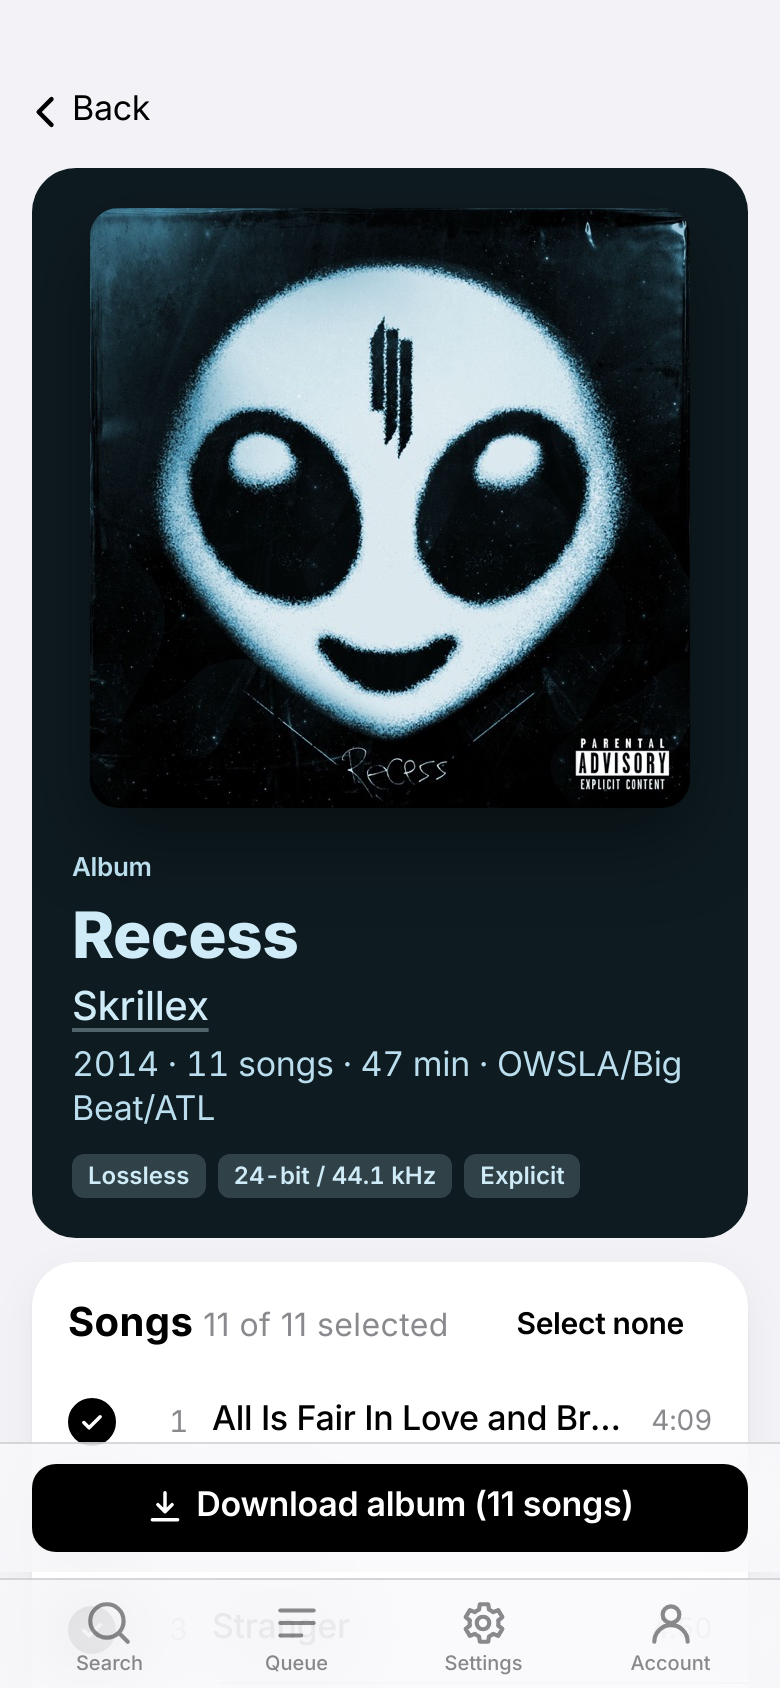
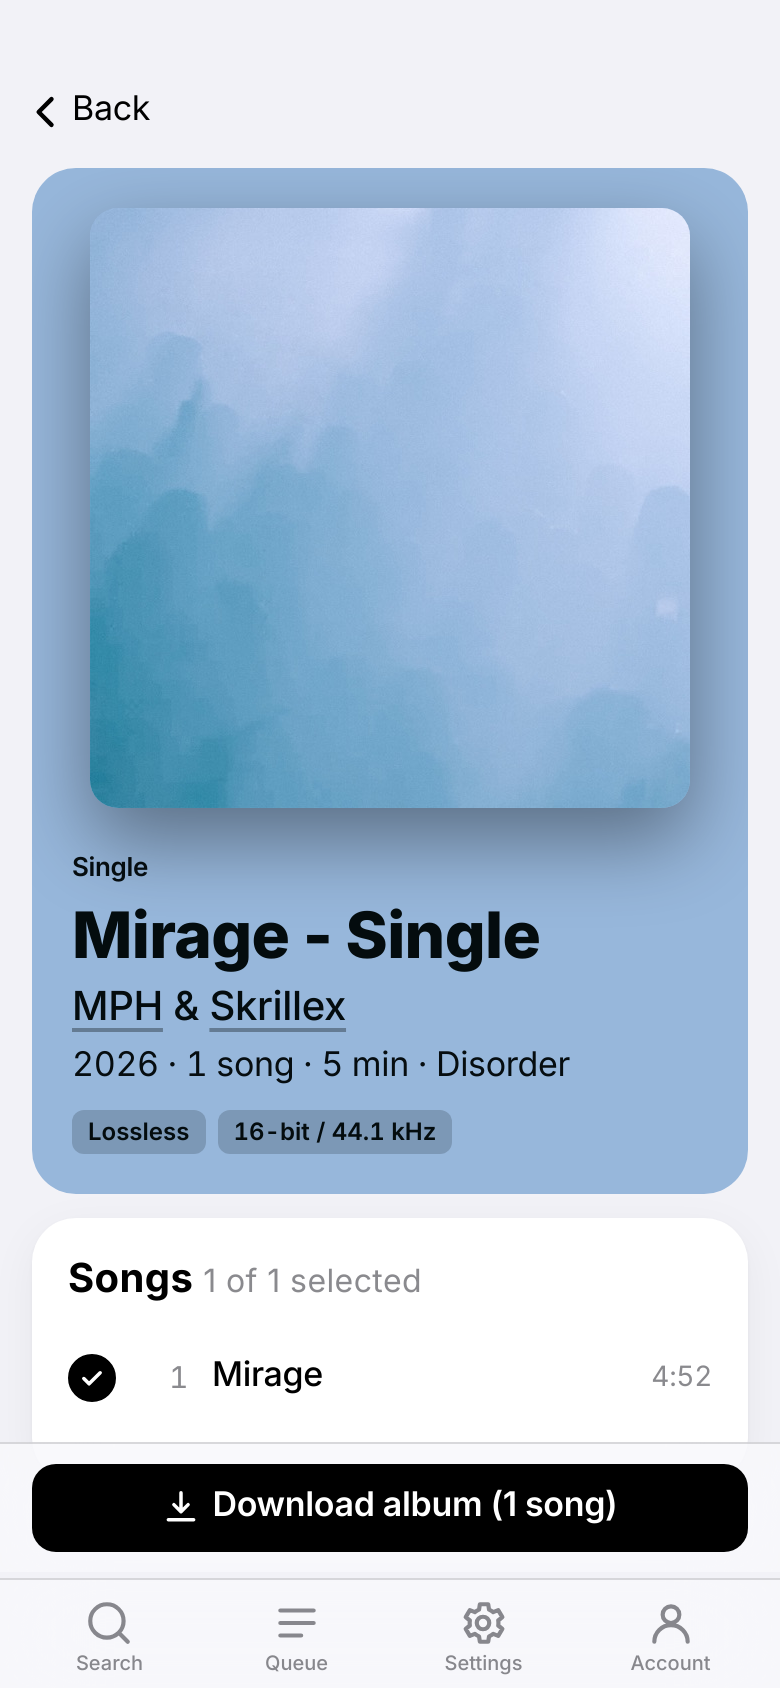
README phone screenshot: Mirage by MPH & Skrillex

diff --git a/README.md b/README.md
@@ -14,7 +14,7 @@ overwriting what is already there.
 
 <p>
   <img src="docs/screenshots/search-dark.png" alt="Calavera's search page in the dark appearance, searching for Skrillex: the top result in its cover's colours beside a list of songs, a row of artists, and album tiles" width="560">
-  <img src="docs/screenshots/album-light.png" alt="Calavera's album page on a phone in the light appearance: Skrillex's Recess in its cover's colours, with its quality in numbers, its songs with checkmarks, and a download button" width="200">
+  <img src="docs/screenshots/album-light.png" alt="Calavera's album page on a phone in the light appearance: the single Mirage by MPH and Skrillex in its cover's colours, with its quality in numbers, its song with a checkmark, and a download button" width="200">
 </p>
 
 ## Before you use it
